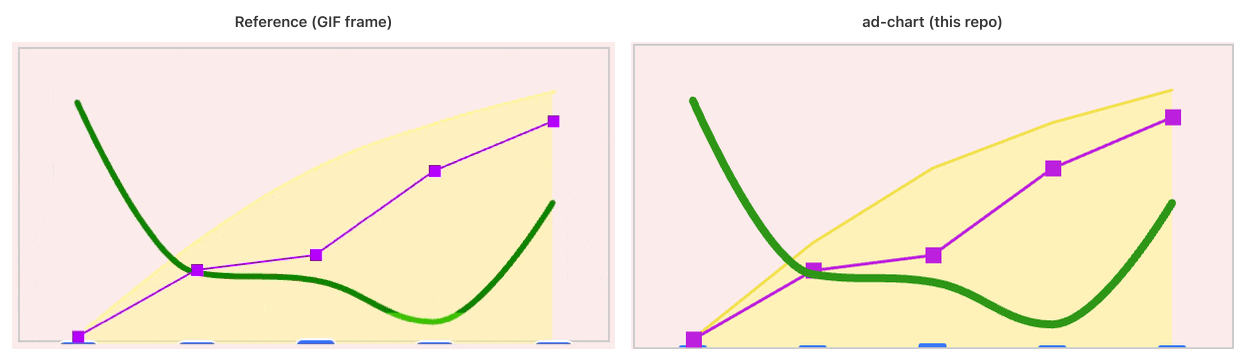
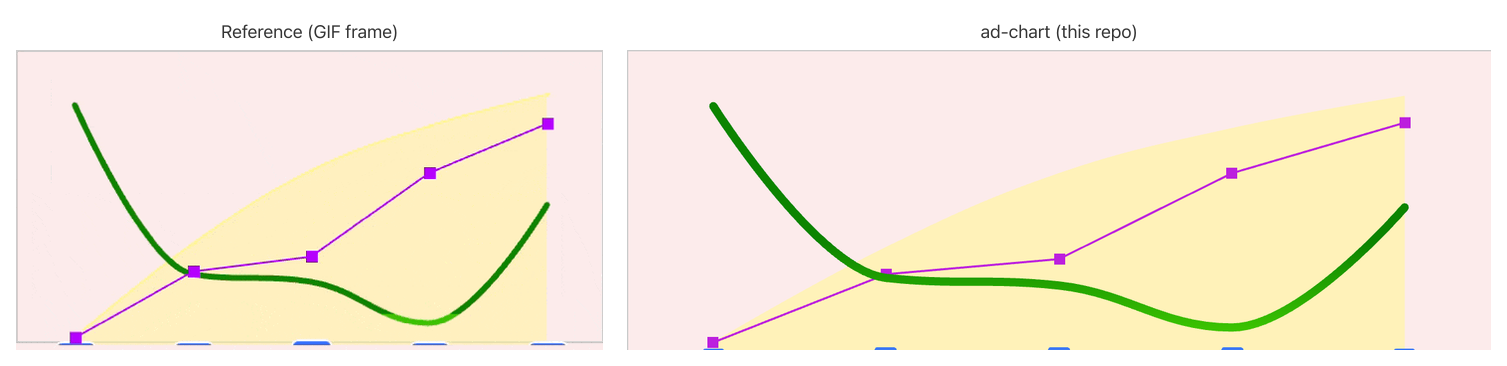
fix: align chart with reference + installable from GitHub

Changed region(s): [[0.0, 0.0305, 1.0, 0.9751], [0.2745, 0.5789, 0.305, 0.6399], [0.2135, 0.6094, 0.244, 0.6704]]

diff --git a/scripts/screenshots.ts b/scripts/screenshots.ts
@@ -1,0 +1,104 @@
+/**
+ * Regenerate the documentation images from the live demo:
+ *   - docs/demo.png       the in-context chart with the 12.06 tooltip open
+ *   - docs/comparison.png a resting reference GIF frame beside our resting chart
+ *
+ * Usage: `pnpm ts:screenshots` (a dev server must be reachable at PORT, or pass
+ * a URL as the first arg). Compares against docs/frames/frame-118.png (resting).
+ */
+import { mkdtempSync } from 'node:fs';
+import { tmpdir } from 'node:os';
+import { join } from 'node:path';
+import { chromium } from '@playwright/test';
+import sharp from 'sharp';
+
+const URL = process.argv[2] ?? 'http://localhost:4318/';
+const CHART = '#chart-context';
+const REST_FRAME = 'docs/frames/frame-118.png';
+
+// Reference plot-box crop (eyedropped from frame-118, 800x529).
+const REF_BOX = { left: 111, top: 95, width: 702 - 111, height: 397 - 95 };
+
+async function run(): Promise<void> {
+  const browser = await chromium.launch({ channel: 'chrome' });
+  const page = await browser.newPage({
+    viewport: { width: 900, height: 600 },
+    deviceScaleFactor: 2,
+  });
+  await page.goto(URL);
+  await page.waitForSelector(`${CHART} .highcharts-series`);
+
+  const chart = page.locator(CHART);
+  const box = await chart.boundingBox();
+  if (!box) throw new Error('no chart box');
+
+  // --- demo.png: hover the 3rd of 5 dates (12.06) to open the shared tooltip.
+  await page.mouse.move(box.x + box.width * 0.5, box.y + box.height * 0.4, { steps: 4 });
+  await page.waitForSelector(`${CHART} .adc-tt`);
+  await page.waitForTimeout(400);
+  const tmp = mkdtempSync(join(tmpdir(), 'adc-'));
+  const demoRaw = join(tmp, 'demo.png');
+  await chart.screenshot({ path: demoRaw });
+  await sharp(demoRaw).resize({ width: 1520 }).toFile('docs/demo.png');
+
+  // --- comparison.png: resting chart plot beside the resting reference frame.
+  await page.mouse.move(0, 0);
+  await page.waitForTimeout(600);
+  const plot = await page.evaluate((sel) => {
+    const el = document.querySelector(
+      `${sel} .highcharts-plot-background`,
+    ) as SVGRectElement | null;
+    if (!el) return null;
+    const r = el.getBoundingClientRect();
+    return { x: r.x, y: r.y, width: r.width, height: r.height };
+  }, CHART);
+  if (!plot) throw new Error('no plot background');
+  const ourRaw = join(tmp, 'our.png');
+  await page.screenshot({
+    path: ourRaw,
+    clip: { x: plot.x, y: plot.y, width: plot.width, height: plot.height },
+  });
+  await browser.close();
+
+  await buildComparison(ourRaw, 'docs/comparison.png');
+  console.log('wrote docs/demo.png and docs/comparison.png');
+}
+
+/** Compose the reference-frame crop and our chart side by side with captions. */
+async function buildComparison(ourPath: string, out: string): Promise<void> {
+  const H = 300;
+  const ref = await sharp(REST_FRAME)
+    .extract(REF_BOX)
+    .resize({ height: H })
+    .toBuffer({ resolveWithObject: true });
+  const our = await sharp(ourPath).resize({ height: H }).toBuffer({ resolveWithObject: true });
+
+  const gap = 24;
+  const pad = 16;
+  const capH = 34;
+  const w = pad * 2 + ref.info.width + gap + our.info.width;
+  const h = pad + capH + H + pad;
+
+  const caption = (text: string, x: number, boxW: number) =>
+    `<text x="${x + boxW / 2}" y="${pad + 22}" font-family="system-ui,-apple-system,Segoe UI,Roboto,sans-serif" font-size="18" fill="#333" text-anchor="middle">${text}</text>`;
+  const svg = Buffer.from(
+    `<svg width="${w}" height="${h}"><rect width="100%" height="100%" fill="#ffffff"/>` +
+      caption('Reference (GIF frame)', pad, ref.info.width) +
+      caption('ad-chart (this repo)', pad + ref.info.width + gap, our.info.width) +
+      `</svg>`,
+  );
+
+  await sharp({ create: { width: w, height: h, channels: 4, background: '#ffffff' } })
+    .composite([
+      { input: svg, top: 0, left: 0 },
+      { input: ref.data, top: pad + capH, left: pad },
+      { input: our.data, top: pad + capH, left: pad + ref.info.width + gap },
+    ])
+    .png()
+    .toFile(out);
+}
+
+run().catch((err) => {
+  console.error(err);
+  process.exit(1);
+});

diff --git a/src/core/build-options.ts b/src/core/build-options.ts
@@ -2,6 +2,7 @@ import type { Options, Point, SeriesOptionsType } from '../highcharts';
 import { formatValue } from './format';
 import {
   COLUMN,
+  COLUMN_HOVER_COLOR,
   CONVERSIONS_MARKER,
   COST_FILL,
   DEFAULT_AXIS_HEADROOM,
@@ -9,6 +10,7 @@ import {
   DEFAULT_LABELS,
   FRAME,
   HALO,
+  ROI_GRADIENT_STOPS,
   SERIES_KEYS,
   type SeriesKey,
   STROKE,
@@ -84,10 +86,14 @@ function buildSeries(data: NormalizedData, resolved: ResolvedOptions): SeriesOpt
   return [
     {
       ...common('cost'),
-      type: 'area',
-      lineWidth: STROKE.costEdge,
+      // areaspline: a smooth filled curve, matching the reference's rounded top.
+      type: 'areaspline',
+      // No visible top edge; the fill alone defines the shape.
+      lineWidth: 0,
       fillColor: hexToRgba(COST_FILL.color, COST_FILL.opacity),
       threshold: 0,
+      // Keep the fill flat on hover (no edge line appearing or thickening).
+      states: { hover: { lineWidth: 0, lineWidthPlus: 0 } },
       marker: {
         enabled: false,
         symbol: 'circle',
@@ -108,12 +114,19 @@ function buildSeries(data: NormalizedData, resolved: ResolvedOptions): SeriesOpt
       borderWidth: 0,
       borderRadius: COLUMN.borderRadius,
       pointWidth: COLUMN.pointWidth,
-      states: { hover: { brightness: 0.12 } },
+      // Hovered bar turns vivid blue; no grey halo (that belongs to the lines).
+      states: { hover: { color: COLUMN_HOVER_COLOR, brightness: 0, halo: null } },
     },
     {
       ...common('roiConfirmed'),
       type: 'spline',
       lineWidth: STROKE.spline,
+      // Vertical stroke gradient (dark top -> light bottom over the path's
+      // bounding box). The tooltip dot/marker keep the solid `colors.roiConfirmed`.
+      color: {
+        linearGradient: { x1: 0, y1: 0, x2: 0, y2: 1 },
+        stops: ROI_GRADIENT_STOPS.map(([stop, hex]) => [stop, hex] as [number, string]),
+      },
       marker: {
         enabled: false,
         symbol: 'diamond',
@@ -202,12 +215,17 @@ export function buildChartOptions(data: NormalizedData, options: AdChartOptions 
         const points: Point[] = this.points ?? [];
         const index = points[0]?.index ?? 0;
         const timeMs = times[index] ?? 0;
-        const rows: TooltipRow[] = points.map((p) => ({
-          key: (p.series.userOptions.id ?? '') as SeriesKey,
-          label: p.series.name,
-          color: (typeof p.color === 'string' ? p.color : p.series.color) as string,
-          value: p.y ?? null,
-        }));
+        const rows: TooltipRow[] = points.map((p) => {
+          const key = (p.series.userOptions.id ?? '') as SeriesKey;
+          return {
+            key,
+            label: p.series.name,
+            // Always the solid series colour: the ROI series `color` is a
+            // gradient object, so the dot must come from the resolved palette.
+            color: resolved.colors[key],
+            value: p.y ?? null,
+          };
+        });
         return renderTooltip(timeMs, rows);
       },
     },

diff --git a/tests/unit/build-options.test.ts b/tests/unit/build-options.test.ts
@@ -8,7 +8,18 @@ type LooseSeries = {
   type: string;
   yAxis: number;
   zIndex: number;
+  color?: unknown;
+  lineWidth?: number;
   marker?: { enabled?: boolean; symbol?: string };
+  states?: {
+    hover?: {
+      color?: string;
+      brightness?: number;
+      halo?: unknown;
+      lineWidth?: number;
+      lineWidthPlus?: number;
+    };
+  };
 };
 
 const options = buildChartOptions(normalize(referenceData));
@@ -18,7 +29,7 @@ const byId = (id: string) => series.find((s) => s.id === id) as LooseSeries;
 describe('buildChartOptions: series', () => {
   it('builds the four series with the right Highcharts types', () => {
     expect(series).toHaveLength(4);
-    expect(byId('cost').type).toBe('area');
+    expect(byId('cost').type).toBe('areaspline');
     expect(byId('cpa').type).toBe('column');
     expect(byId('roiConfirmed').type).toBe('spline');
     expect(byId('conversions').type).toBe('line');
@@ -42,6 +53,32 @@ describe('buildChartOptions: series', () => {
 
   it('puts each series on its own Y-axis', () => {
     expect(series.map((s) => s.yAxis)).toEqual([0, 1, 2, 3]);
+  });
+
+  it('draws Cost as a strokeless fill that stays flat on hover', () => {
+    const cost = byId('cost');
+    expect(cost.lineWidth).toBe(0);
+    expect(cost.states?.hover?.lineWidth).toBe(0);
+    expect(cost.states?.hover?.lineWidthPlus).toBe(0);
+  });
+
+  it('draws ROI with a top-to-bottom vertical stroke gradient', () => {
+    const color = byId('roiConfirmed').color as {
+      linearGradient?: { x1: number; y1: number; x2: number; y2: number };
+      stops?: [number, string][];
+    };
+    expect(color.linearGradient).toEqual({ x1: 0, y1: 0, x2: 0, y2: 1 });
+    const stops = color.stops ?? [];
+    expect(stops[0]?.[0]).toBe(0);
+    expect(stops.at(-1)?.[0]).toBe(1);
+    // Bottom stop (the minimum) is lighter than the top stop.
+    expect(stops.at(-1)?.[1]).not.toBe(stops[0]?.[1]);
+  });
+
+  it('highlights the hovered CPA column in solid blue with no halo', () => {
+    const hover = byId('cpa').states?.hover;
+    expect(typeof hover?.color).toBe('string');
+    expect(hover?.halo).toBeNull();
   });
 });
 
@@ -133,6 +170,24 @@ describe('buildChartOptions: tooltip formatter', () => {
 
   it('handles an empty points array', () => {
     expect(call([])).toContain('10.06.2026');
+  });
+
+  it('renders the ROI dot as a solid colour even though its series is a gradient', () => {
+    const html = call([
+      {
+        index: 2,
+        y: 161.47,
+        // A gradient object, as the real ROI series exposes.
+        color: { linearGradient: {}, stops: [] } as unknown as string,
+        series: {
+          name: 'ROI confirmed',
+          color: { linearGradient: {}, stops: [] } as unknown as string,
+          userOptions: { id: 'roiConfirmed' },
+        },
+      },
+    ]);
+    expect(html).toContain('color:#0C8400');
+    expect(html).not.toContain('[object Object]');
   });
 });
 

diff --git a/src/core/theme.ts b/src/core/theme.ts
@@ -27,8 +27,8 @@ export const SERIES_KEYS: readonly SeriesKey[] = [
 ] as const;
 
 /** Highcharts series type used for each key. */
-export const SERIES_TYPE: Record<SeriesKey, 'area' | 'column' | 'spline' | 'line'> = {
-  cost: 'area',
+export const SERIES_TYPE: Record<SeriesKey, 'areaspline' | 'column' | 'spline' | 'line'> = {
+  cost: 'areaspline',
   cpa: 'column',
   roiConfirmed: 'spline',
   conversions: 'line',
@@ -42,13 +42,32 @@ export const DEFAULT_LABELS: Record<SeriesKey, string> = {
   conversions: 'Conversions',
 };
 
-/** Default series colours (eyedropped from the reference). */
+/**
+ * Default series colours (eyedropped from the reference). `roiConfirmed` is the
+ * solid dark green used for the tooltip dot and hover marker; the ROI line
+ * itself is drawn with `ROI_GRADIENT` (see below).
+ */
 export const DEFAULT_COLORS: Record<SeriesKey, string> = {
   cost: '#F2E14F',
   cpa: '#3B78F5',
-  roiConfirmed: '#2E9616',
+  roiConfirmed: '#0C8400',
   conversions: '#BC1FDE',
 };
+
+/**
+ * Vertical stroke gradient for the ROI spline (over the curve's bounding box):
+ * dark green is held across the top ~60% (the peak at ~10.06 and the rising
+ * right leg stay dark, as in the reference) and only the bottom — the minimum
+ * at ~13.06 — fades to a lighter lime green. Eyedropped from `docs/frames`.
+ */
+export const ROI_GRADIENT_STOPS: readonly [number, string][] = [
+  [0, '#0C8400'],
+  [0.62, '#0C8400'],
+  [1, '#3AC201'],
+];
+
+/** CPA column hover: the bar under the cursor turns a vivid, saturated blue. */
+export const COLUMN_HOVER_COLOR = '#1F6BFF';
 
 /**
  * Per-series axis headroom: the hidden Y-axis maximum is `dataMax * headroom`
@@ -70,8 +89,7 @@ export const COST_FILL = {
 
 /** Stroke widths, in px at the default height. */
 export const STROKE = {
-  costEdge: 1.5,
-  spline: 4,
+  spline: 6,
   line: 1.5,
 } as const;
 
@@ -89,8 +107,8 @@ export const HALO = {
 
 /** CPA column geometry. */
 export const COLUMN = {
-  borderRadius: 1,
-  pointWidth: 14,
+  borderRadius: 2,
+  pointWidth: 16,
 } as const;
 
 /** Plot frame and canvas. */

diff --git a/README.md b/README.md
@@ -37,6 +37,20 @@ Requires Node.js 22+ and pnpm (via Corepack: `corepack enable pnpm`).
 
 ## Usage: initialize with four series
 
+### Installation
+
+Install straight from GitHub — no npm publish needed. The package has no committed
+build output; it compiles itself on install via the `prepare` script (`pnpm build`),
+so `dist/` is always fresh for your checkout:
+
+```bash
+pnpm add github:kotbarbarossa/ad-chart
+pnpm add highcharts   # required peer dependency (>=11)
+```
+
+`highcharts` is a **peer dependency** — bring your own version. For the React wrapper
+(`ad-chart/react`) also install `react` and `react-dom` (they are optional peers).
+
 ### Vanilla (main API)
 
 ```ts
